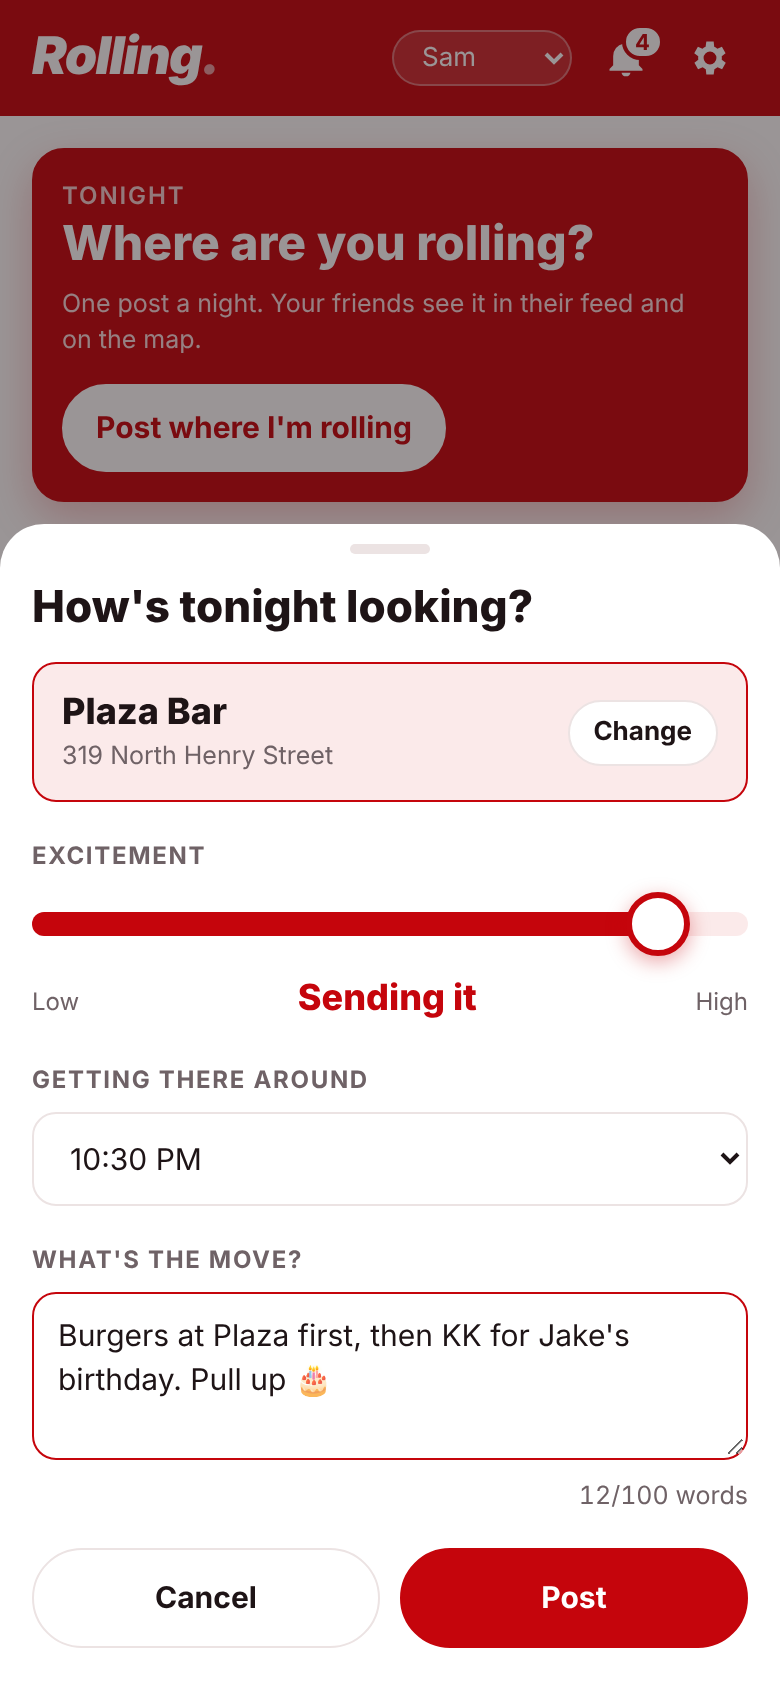
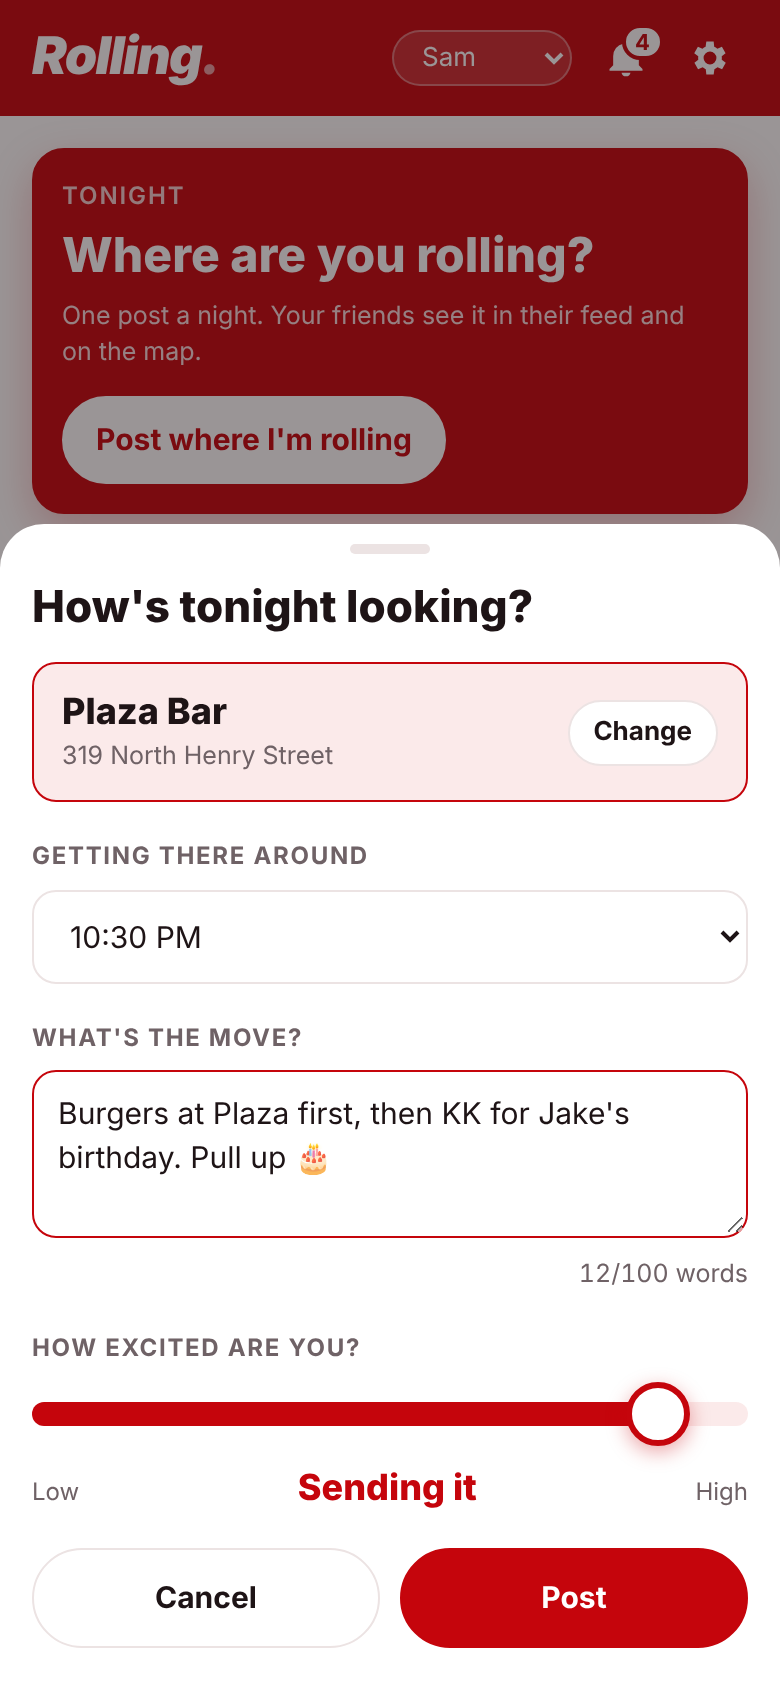
Own post card and composer follow the feed layout order
Claude-Session: https://claude.ai/code/session_01LsgwHYcrkn2rvmvnVgPXbN

diff --git a/app.js b/app.js
@@ -196,11 +196,9 @@
     if (mine) {
       const b = BAR_BY_ID[mine.barId];
       html += `<div class="card mine">
-        <div class="label">You're rolling to</div>
-        <div class="bar">${esc(b.name)}</div>
-        ${postDetails(mine)}
-        <div class="mine-actions"><button class="btn small" id="editMine">Change tonight's post</button>
-          <button class="btn small" data-thread="${pid(mine)}">💬 ${repliesFor(pid(mine)).length || ""} ${repliesFor(pid(mine)).length === 1 ? "reply" : "replies"}</button></div>
+        <div class="label">Your post tonight</div>
+        ${postBody(mine, { replies: true })}
+        <div class="mine-actions"><button class="btn small" id="editMine">Change tonight's post</button></div>
       </div>`;
     } else {
       html += `<div class="card mine">
@@ -298,18 +296,18 @@
       <div class="picked"><span><div class="n">${esc(b.name)}</div><div class="sub small">${esc(b.addr || b.type)}</div></span>
         <button class="btn small" id="changeBar">Change</button></div>
 
-      <label class="field-label" for="hype">Excitement</label>
-      <div class="hype">
-        <input type="range" id="hype" min="0" max="100" step="1" value="${draft.excitement}" />
-        <div class="hype-ends"><span>Low</span><b id="hypeLabel"></b><span>High</span></div>
-      </div>
-
       <label class="field-label" for="arrive">Getting there around</label>
       <select id="arrive" class="select">${TIMES.map((t) => `<option value="${t}" ${t === draft.arrive ? "selected" : ""}>${fmtTime(t)}</option>`).join("")}</select>
 
       <label class="field-label" for="comment">What's the move?</label>
       <textarea class="comment" id="comment" placeholder="Pregame plans, a birthday, a drink special… give your friends a reason to pull up.">${esc(draft.comment || "")}</textarea>
       <div class="small counter" id="cc"></div>
+
+      <label class="field-label" for="hype">How excited are you?</label>
+      <div class="hype">
+        <input type="range" id="hype" min="0" max="100" step="1" value="${draft.excitement}" />
+        <div class="hype-ends"><span>Low</span><b id="hypeLabel"></b><span>High</span></div>
+      </div>
 
       <div class="sheet-actions">
         <button class="btn" id="cancel">Cancel</button>

diff --git a/styles.css b/styles.css
@@ -302,3 +302,14 @@ textarea.comment:focus { border-color: var(--red); }
 .post-meter { border-top: 1px solid var(--line); padding-top: 8px; }
 .post-meter .meter { margin-top: 0; }
 .thread-post { display: flex; flex-direction: column; gap: 8px; }
+
+/* Your own post uses the same layout, in red */
+.mine .label { margin-bottom: 8px; }
+.mine .post-where, .mine .post-meta .time, .mine .reply-btn, .mine .reply-peek { color: rgba(255,255,255,.85); }
+.mine .post-where b, .mine .reply-peek b, .mine .fav-star { color: var(--white); }
+.mine .post-meta .who { color: var(--white); }
+.mine .post-meter { border-top-color: rgba(255,255,255,.3); }
+.mine .avatar { box-shadow: 0 0 0 2px var(--white); }
+.mine .reply-bar { margin-top: 8px; }
+.mine .post-text { margin-top: 8px; }
+.mine .post-meter { margin-top: 8px; }
